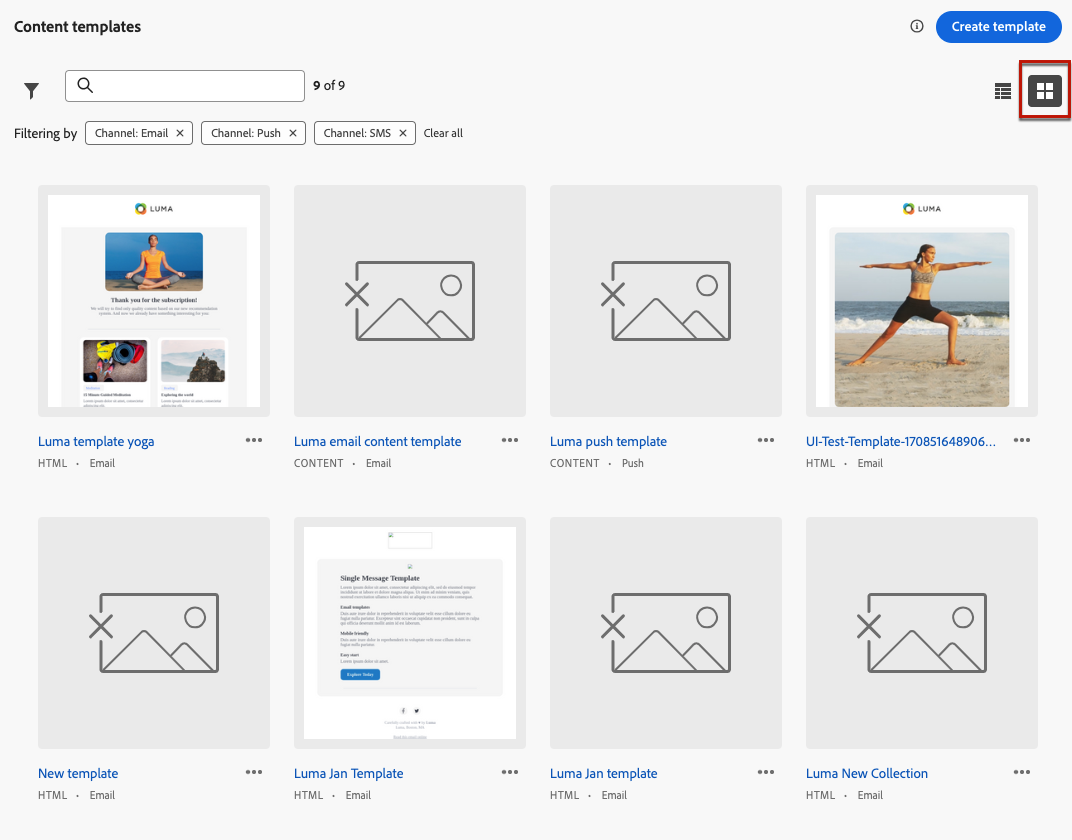
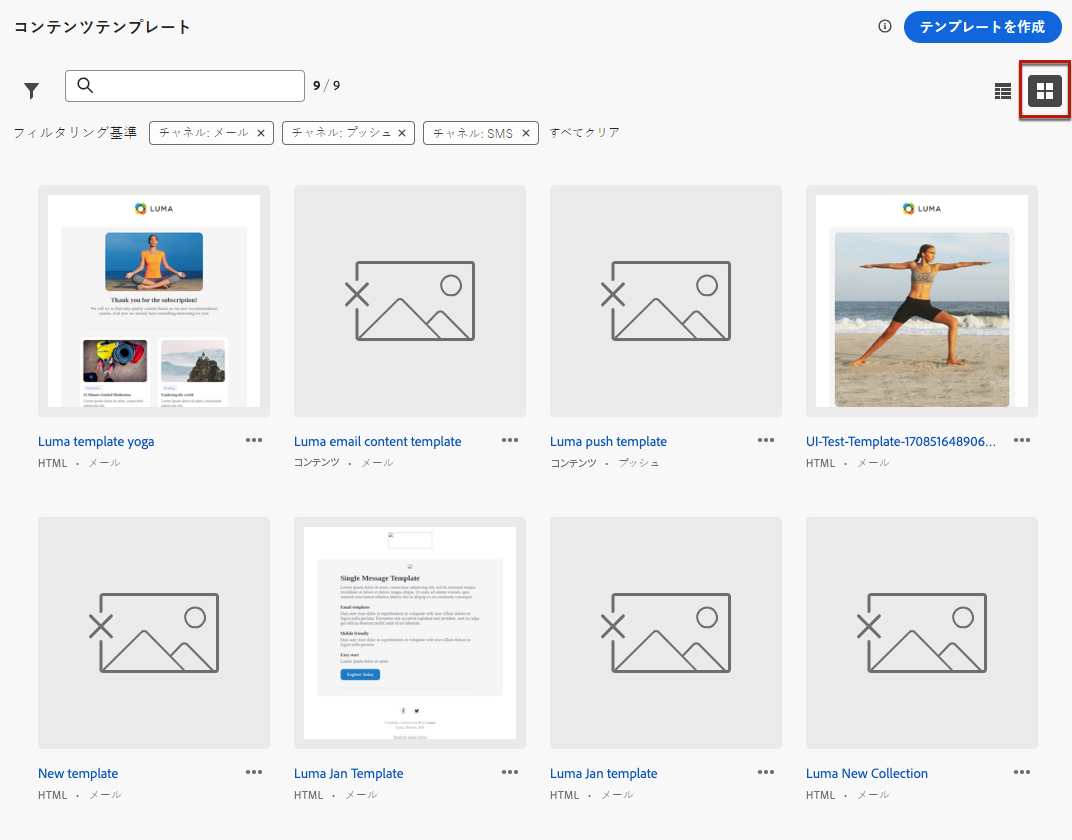
Updated by task 'DOCAC-10126_1710856422931'  Changes for core/source commit https://git.corp.adobe.com/AdobeDocs/journey-optimizer.en/commit/44170e04be45c5b3df6343767dc7e640a61940f8

diff --git a/help/using/configuration/frequency-rules.md b/help/using/configuration/frequency-rules.md
@@ -10,9 +10,9 @@ level: Intermediate
 keywords: メッセージ, 頻度, ルール, プレッシャー
 exl-id: 49248fb6-5a91-45b2-9de8-2f078d59c0fc
 source-git-commit: 949e7cd05a2b1125e13615814f6501b3906e470c
-workflow-type: tm+mt
+workflow-type: ht
 source-wordcount: '1212'
-ht-degree: 90%
+ht-degree: 100%
 
 ---
 
@@ -75,13 +75,13 @@ ht-degree: 90%
 
    >[!NOTE]
    >
-   >次の項目のみ **[!UICONTROL マーケティング]** カテゴリが使用可能です。
+   >**[!UICONTROL マーケティング]**&#x200B;カテゴリのみが使用可能です。
 
    ![](assets/message-rules-details.png)
 
-1. 次から： **[!UICONTROL 期間]** 」ドロップダウンリストから、キャッピングを適用する期間を選択します。 [詳細情報](#frequency-cap)
+1. **[!UICONTROL 期間]**&#x200B;ドロップダウンリストから、キャッピングを適用する時間枠を選択します。[詳細情報](#frequency-cap)
 
-1. ルールのキャッピングを設定します。これは、上記の選択に応じて、毎月または毎週<!--or day-->、個々のユーザープロファイルに送信できるメッセージの最大数を意味します。
+1. ルールのキャッピングを設定します。これは、上記の選択に応じて、1 つの個別ユーザープロファイルに送信できる、1 か月または 1 週間あたり<!--or day-->のメッセージの最大数を意味します。
 
    <!--![](assets/message-rules-capping.png)-->
 
@@ -101,13 +101,13 @@ ht-degree: 90%
 
    ![](assets/message-rules-created.png)
 
-### 頻度キャップ {#frequency-cap}
+### フリークエンシーキャップ {#frequency-cap}
 
-次から： **[!UICONTROL 期間]** ドロップダウンリストから、毎月または毎週制限を適用する場合に選択します。
+**[!UICONTROL 期間]**&#x200B;ドロップダウンリストから、キャッピングを毎月に適用するか毎週に適用するかを選択します。
 
 >[!NOTE]
 >
->1 日あたりの頻度キャップは、オンデマンドでも利用できます。 [詳細情報](#daily-frequency-cap)
+>また、日別のフリークエンシーキャップは、オンデマンドでも使用可能です。[詳細情報](#daily-frequency-cap)
 
 フリークエンシーキャップは、選択したカレンダーの期間に基づきます。対応する時間枠の開始時にリセットされます。
 
@@ -119,15 +119,15 @@ ht-degree: 90%
 
 * **[!UICONTROL 毎週]**：フリークエンシーキャップは、暦週が日曜日に始まるため、その週の土曜日 23:59:59 UTC まで有効です。有効期限は、ルールの作成に関係なく設定されます。例えば、木曜日にルールが作成された場合、このルールは土曜日の 23:59:59 まで有効です。
 
-### 1 日あたりの頻度の上限 {#daily-frequency-cap}
+### 日別のフリークエンシーキャップ {#daily-frequency-cap}
 
-1 か月と 1 週間に加えて、1 日の頻度キャップもオンデマンドで利用できます。 詳しくは、Adobe担当者にお問い合わせください。
+月別と週別に加えて、日別のフリークエンシーキャップもオンデマンドで使用可能です。詳しくは、アドビ担当者にお問い合わせください。
 
-1 日の頻度の上限は、23 日まで有効です:59:59(UTC) に設定され、翌日の開始時に 0 にリセットされます。
+日別のフリークエンシーキャップは、その日の 23:59:59 UTC まで有効で、翌日の開始とともに 0 にリセットされます。
 
 >[!NOTE]
 >
->を処理する際に [バッチセグメント化](https://experienceleague.adobe.com/docs/experience-platform/segmentation/home.html?lang=ja#batch){target="_blank"}, the daily counters may not accurately reflect the current values as the daily counter snapshot is taken at midnight UTC the night before. Consequently, relying on daily counters in this scenario becomes impractical, as the snapshot does not reflect the most up-to-date counter values on the profile. To ensure accuracy for daily frequency capping rules, the use of [streaming segmentation](https://experienceleague.adobe.com/docs/experience-platform/segmentation/ui/streaming-segmentation.html?lang=ja){target="_blank"} をお勧めします。 でのオーディエンス評価方法の詳細を説明します。 [この節](../audience/about-audiences.md#evaluation-method-in-journey-optimizer).
+>[バッチセグメント化](https://experienceleague.adobe.com/docs/experience-platform/segmentation/home.html?lang=ja#batch)を扱う場合、{target="_blank"}, the daily counters may not accurately reflect the current values as the daily counter snapshot is taken at midnight UTC the night before. Consequently, relying on daily counters in this scenario becomes impractical, as the snapshot does not reflect the most up-to-date counter values on the profile. To ensure accuracy for daily frequency capping rules, the use of [streaming segmentation](https://experienceleague.adobe.com/docs/experience-platform/segmentation/ui/streaming-segmentation.html?lang=ja){target="_blank"} が推奨されます。オーディエンスの評価方法について詳しくは、[この節](../audience/about-audiences.md#evaluation-method-in-journey-optimizer)を参照してください。
 
 ## ルールのアクティブ化 {#activate-rule}
 

diff --git a/help/using/building-journeys/expression/data-types.md b/help/using/building-journeys/expression/data-types.md
@@ -9,9 +9,9 @@ level: Experienced
 keywords: 式, データ, データタイプ, ジャーニー
 exl-id: fdfc3287-d733-45fb-ad11-b4238398820a
 source-git-commit: 4e7c4e7e6fcf488f572ccf3e9037e597dde06510
-workflow-type: tm+mt
+workflow-type: ht
 source-wordcount: '620'
-ht-degree: 95%
+ht-degree: 100%
 
 ---
 
@@ -165,7 +165,7 @@ toDateTimeOnly 関数でカプセル化できます。
 
 シリアル化形式：ISO-8601 拡張オフセット日時形式。
 
-値の逆シリアル化とシリアル化に DateTimeFormatter ISO_LOCAL_DATE_TIME を使用します。[詳細情報](https://docs.oracle.com/javase/8/docs/api/java/time/format/DateTimeFormatter.html#ISO_LOCAL_DATE_TIME&quot;){_blank}.
+値の逆シリアル化とシリアル化に DateTimeFormatter ISO_LOCAL_DATE_TIME を使用します。[詳細情報](https://docs.oracle.com/javase/8/docs/api/java/time/format/DateTimeFormatter.html#ISO_LOCAL_DATE_TIME&quot;){_blank}。
 
 **リテラル表現**
 
@@ -186,7 +186,7 @@ date("2024-02-19T00.00")
 
 タイムゾーンも考慮した日時定数。UTC からのオフセットを持つ日時を表します。
 
-オフセットの追加情報を含んだある瞬間と見なすことができます。これは、世界のある場所で特定の「瞬間」を表す方法です。
+オフセットの追加情報を含んだある瞬間と見なすことができます。世界のある場所での特定の「瞬間」を表す手段になります。
 
 JSON 形式：文字列
 
@@ -194,9 +194,9 @@ toDateTime 関数でカプセル化できます。
 
 シリアル化形式：ISO-8601 拡張オフセット日時形式。
 
-値の逆シリアル化とシリアル化に DateTimeFormatter ISO_OFFSET_DATE_TIME を使用します。[詳細情報](https://docs.oracle.com/javase/8/docs/api/java/time/format/DateTimeFormatter.html#ISO_OFFSET_DATE_TIME){_blank}.
+値の逆シリアル化とシリアル化に DateTimeFormatter ISO_OFFSET_DATE_TIME を使用します。[詳細情報](https://docs.oracle.com/javase/8/docs/api/java/time/format/DateTimeFormatter.html#ISO_OFFSET_DATE_TIME){_blank}。
 
-エポック値を表す整数を渡すこともできます。[詳細を表示](https://www.epochconverter.com){_blank}.
+エポック値を表す整数を渡すこともできます。[詳細情報](https://www.epochconverter.com){_blank}。
 
 タイムゾーンは、オフセットまたはタイムゾーンコード（例：Europe/Paris、Z は UTC を意味）で指定できます。
 
@@ -258,7 +258,7 @@ toDuration 関数でカプセル化する必要があります。
 
 シリアル化形式：タイムゾーン ID を逆シリアル化するには、java 関数の java.time を使用します。
 
-Duration.parse：許可される形式は、ISO-8601 期間形式 PnDTnHnMn.nS に基づいており、日は正確に 24 時間と見なされます。[詳細情報](https://docs.oracle.com/javase/8/docs/api/java/time/Duration.html#parse-java.lang.CharSequence-){_blank}.
+Duration.parse：許可される形式は、ISO-8601 期間形式 PnDTnHnMn.nS に基づいており、日は正確に 24 時間と見なされます。[詳細情報](https://docs.oracle.com/javase/8/docs/api/java/time/Duration.html#parse-java.lang.CharSequence-){_blank}。
 
 **リテラル表現**
 

diff --git a/help/using/building-journeys/wait-activity.md b/help/using/building-journeys/wait-activity.md
@@ -10,9 +10,9 @@ level: Intermediate
 keywords: 待機, アクティビティ, ジャーニー, 次, キャンバス
 exl-id: 7268489a-38c1-44da-b043-f57aaa12d7d5
 source-git-commit: 4e7c4e7e6fcf488f572ccf3e9037e597dde06510
-workflow-type: tm+mt
+workflow-type: ht
 source-wordcount: '489'
-ht-degree: 89%
+ht-degree: 100%
 
 ---
 
@@ -64,9 +64,9 @@ Select the date for the execution of the next activity.
 
 >[!NOTE]
 >
->dateTimeOnly 式を利用するか、関数を使用して dateTimeOnly に変換することができます。例えば、toDateTimeOnly(@event{Event.offerOpened.activity.endTime}) の場合、イベントのフィールドは2023-08-12T09の形式です。:46:06Z
+>dateTimeOnly 式を利用するか、関数を使用して dateTimeOnly に変換することができます。例えば、toDateTimeOnly(@event{Event.offerOpened.activity.endTime}) では、イベント内のフィールドが 2023-08-12T09:46:06Z の形式になります。
 >
->ジャーニーのプロパティには&#x200B;**タイムゾーン**&#x200B;が必要です。その結果、現在、インターフェイスから完全な ISO-8601 タイムスタンプを直接指すことはできず、タイムゾーンのオフセット (2023-08-12T09など ) を含む:46:06.982-05 [このページ](../building-journeys/timezone-management.md)を参照してください。
+>ジャーニーのプロパティには&#x200B;**タイムゾーン**&#x200B;が必要です。そのため、今のところ、時刻とタイムゾーンのオフセットを組み合わせた、完全な ISO-8601 タイムスタンプ（2023-08-12T09:46:06.982-05 など）をインターフェイスから直接指定することはできません。[このページ](../building-journeys/timezone-management.md)を参照してください。
 
 ![](assets/journey57.png)
 

diff --git a/help/using/content-management/content-templates.md b/help/using/content-management/content-templates.md
@@ -9,9 +9,9 @@ role: User
 level: Beginner
 exl-id: 327de13a-1c99-4d5e-86cf-8180fb7aaf23
 source-git-commit: 3f844f65609f271e834ebf42749253fd64446a9a
-workflow-type: tm+mt
+workflow-type: ht
 source-wordcount: '1425'
-ht-degree: 96%
+ht-degree: 100%
 
 ---
 
@@ -69,7 +69,7 @@ ht-degree: 96%
 
 ### テンプレートをサムネールとして表示 {#template-thumbnails}
 
-を選択します。 **[!UICONTROL グリッド表示]** モード：各テンプレートをサムネールとして表示します。
+各テンプレートをサムネールとして表示するには、**[!UICONTROL グリッド表示]**&#x200B;モードを選択します。
 
 >[!AVAILABILITY]
 >
@@ -79,9 +79,9 @@ ht-degree: 96%
 
 >[!NOTE]
 >
->現在、適切なサムネールは、HTMLタイプの E メールコンテンツテンプレートに対してのみ生成できます。
+>現在、適切なサムネールは HTML タイプのメールコンテンツテンプレートに対してのみ生成できます。
 
-コンテンツを更新する場合、変更がサムネールに反映されるまで、数秒待つ必要が生じる場合があります。
+コンテンツを更新する場合、変更がサムネールに反映されるまでに数秒待つ必要がある場合があります。
 
 ## コンテンツテンプレートの作成 {#create-content-templates}
 

diff --git a/help/using/offers/api-reference/offers-api/legacy-apis/collections/collections-list.md b/help/using/offers/api-reference/offers-api/legacy-apis/collections/collections-list.md
@@ -7,9 +7,9 @@ role: Data Engineer
 level: Experienced
 exl-id: ce39d77d-6d81-48d7-9e73-e1d537874018
 source-git-commit: 4e7c4e7e6fcf488f572ccf3e9037e597dde06510
-workflow-type: tm+mt
+workflow-type: ht
 source-wordcount: '272'
-ht-degree: 97%
+ht-degree: 100%
 
 ---
 
@@ -30,7 +30,7 @@ GET /{ENDPOINT_PATH}/{CONTAINER_ID}/queries/core/search?schema={SCHEMA_FILTER}&{
 | `{ENDPOINT_PATH}` | リポジトリ API のエンドポイントパス。 | `https://platform.adobe.io/data/core/xcore/` |
 | `{QUERY_PARAMS}` | 結果をフィルタリングする条件となるクエリパラメーター（オプション）。 | `limit=2` |
 | `{CONTAINER_ID}` | コレクションが配置されているコンテナ。 | `e0bd8463-0913-4ca1-bd84-6309134ca1f6` |
-| `{SCHEMA_FILTER}` | コレクションに関連付けられたスキーマを定義します。 <https://ns.adobe.com/experience/offer-management/offer-filter;version=0.1> |
+| `{SCHEMA_FILTER}` | コレクションに関連付けられたスキーマを定義します。<https://ns.adobe.com/experience/offer-management/offer-filter;version=0.1> |
 | `{QUERY_PARAMS}` | 結果をフィルタリングする条件となるクエリパラメーター（オプション）。 | `limit=1` |
 
 **リクエスト**

diff --git a/help/using/sms/sms-opt-out.md b/help/using/sms/sms-opt-out.md
@@ -9,9 +9,9 @@ role: User
 level: Intermediate
 exl-id: 59ea67d9-e90c-4ad0-afb9-d0e0fd868855
 source-git-commit: d7b784f10e267878fd0df9360ed0d1be24699a53
-workflow-type: tm+mt
+workflow-type: ht
 source-wordcount: '484'
-ht-degree: 97%
+ht-degree: 100%
 
 ---
 
@@ -38,7 +38,7 @@ ht-degree: 97%
 
 これらのキーワードは通常、お使いのサードパーティプロバイダーから提供される自動標準返信をトリガーします。これについては、プロバイダーまたはドキュメントサイトで直接確認してください。
 
-Infobip を使用する場合は、「Forwarding」アクションが「Pull」設定に設定されていることを確認します。
+Infobip を使用する場合は、転送アクションがプル設定に指定されていることを確認してください。
 
 キーワード応答の STOP、UNSTOP、START、QUIT、CANCEL、END および UNSUBSCRIBE が自動的に認識されるので、Adobe Journey Optimizer で SMS オプトアウト機能が機能していることを確認する手順は不要です。プロファイルのオプトアウトステータスは、Adobe Journey Optimizer でリアルタイムに更新されます。
 

diff --git a/help/using/building-journeys/expression/operators.md b/help/using/building-journeys/expression/operators.md
@@ -9,9 +9,9 @@ level: Experienced
 keywords: 式, 構文, 演算子, エディター, ジャーニー
 exl-id: 706e2e02-9bd9-46e7-a73d-dda3c9ae4ba8
 source-git-commit: 4e7c4e7e6fcf488f572ccf3e9037e597dde06510
-workflow-type: tm+mt
+workflow-type: ht
 source-wordcount: '531'
-ht-degree: 93%
+ht-degree: 100%
 
 ---
 
@@ -434,13 +434,13 @@ true を返します
 "the current time is " + (now())
 ```
 
-「現在の時刻は2023-09-23T09です:30:06.693Z&quot;
+「現在の時刻は 2023-09-23T09:30:06.693Z です」を返します
 
 ```json
 (now()) + " is the current time"
 ```
 
-戻り値&quot;2023-09-23T09:30:06.693Z は現在の時刻です。
+「2023-09-23T09:30:06.693Z は現在の時刻です」を返します
 
 ```json
 "a" + "b" + "c" + 1234
@@ -464,13 +464,13 @@ true を返します
 (toDateTime("2023-12-03T15:15:30Z")) + (toDuration("PT15M"))  
 ```
 
-を返します。 _dateTime_ 2023-12-03T15:30:30Z
+_dateTime_ 2023-12-03T15:30:30Z を返します
 
 ```json
 (toDateTimeOnly("2023-12-03T15:15:30")) + (toDuration("PT15M"))
 ```
 
-を返します。 _dateTimeOnly_ 2023-12-03T15:30:30
+_dateTimeOnly_ 2023-12-03T15:30:30 を返します
 
 ```json
 (now()) + (toDuration("PT1H"))

diff --git a/help/using/building-journeys/functions/functiontodatetime.md b/help/using/building-journeys/functions/functiontodatetime.md
@@ -5,12 +5,12 @@ description: toDateTime 関数について説明します
 feature: Journeys
 role: Data Engineer, Architect
 level: Experienced
-keywords: toDateTime，関数，式，ジャーニー
+keywords: toDateTime, 関数, 式, ジャーニー
 exl-id: 2b487e60-593e-4bf7-9639-f469ba0f5cdc
 source-git-commit: 4e7c4e7e6fcf488f572ccf3e9037e597dde06510
-workflow-type: tm+mt
+workflow-type: ht
 source-wordcount: '104'
-ht-degree: 81%
+ht-degree: 100%
 
 ---
 
@@ -74,15 +74,15 @@ Return a datetime.
 
 `toDateTime ("2023-08-18T23:17:59.123Z")`
 
-戻り値2023-08-18T23:17:59.123Z
+2023-08-18T23:17:59.123Z を返します
 
 `toDateTime(toDateTimeOnly("UTC", "2023-08-18T23:17:59.123"))`
 
-戻り値2023-08-18T23:17:59.123Z
+2023-08-18T23:17:59.123Z を返します
 
 `toDateTime(1560762190189)`
 
-戻り値2023-06-17T09:03:10.189Z
+2023-06-17T09:03:10.189Z を返します
 
 <!--`toDateTime ("2016-08-18T23:17:59.123", "UTC")`
 

diff --git a/help/using/building-journeys/functions/functiontodateonly.md b/help/using/building-journeys/functions/functiontodateonly.md
@@ -5,12 +5,12 @@ description: toDateOnly 関数について説明します
 feature: Journeys
 role: Data Engineer, Architect
 level: Experienced
-keywords: toDateOnly，関数，式，ジャーニー
+keywords: toDateOnly, 関数, 式, ジャーニー
 exl-id: 1929644f-8b51-4f95-aea5-627fc1dd115d
 source-git-commit: 4e7c4e7e6fcf488f572ccf3e9037e597dde06510
-workflow-type: tm+mt
+workflow-type: ht
 source-wordcount: '100'
-ht-degree: 96%
+ht-degree: 100%
 
 ---
 
@@ -55,7 +55,7 @@ dateOnly 型の値を返します。
 
 `toDateOnly("2023-08-18T00:00:00")`
 
-すべての場合、2023/08/18 を表す dateOnly オブジェクトが返されます。
+すべて、2023/08/18 を表す dateOnly オブジェクトを返します。
 
 `toDateOnly(#{ExperiencePlatform.ProfileFieldGroup.person.birthDate})`
 

diff --git a/help/using/building-journeys/functions/functiontodatetimeonly.md b/help/using/building-journeys/functions/functiontodatetimeonly.md
@@ -5,12 +5,12 @@ description: toDateTime 関数について説明します
 feature: Journeys
 role: Data Engineer, Architect
 level: Experienced
-keywords: toDateTimeOnly，関数，式，ジャーニー
+keywords: toDateTimeOnly, 関数, 式, ジャーニー
 exl-id: db54c119-5080-403a-b254-43645be6b4a8
 source-git-commit: 4e7c4e7e6fcf488f572ccf3e9037e597dde06510
-workflow-type: tm+mt
+workflow-type: ht
 source-wordcount: '63'
-ht-degree: 80%
+ht-degree: 100%
 
 ---
 
@@ -47,7 +47,7 @@ ht-degree: 80%
 
 `toDateTimeOnly ("2023-08-18")`
 
-は、2023-08-18T00を表す dateTime を返します:00:00.000
+2023-08-18T00:00:00.000 を表す日時を返します
 
 `toDateTimeOnly(now())`
 

diff --git a/help/using/data/datasets-query-examples.md b/help/using/data/datasets-query-examples.md
@@ -10,9 +10,9 @@ level: Experienced
 keywords: データセット, Optimizer, ユースケース
 exl-id: 26ba8093-8b6d-4ba7-becf-b41c9a06e1e8
 source-git-commit: 4e7c4e7e6fcf488f572ccf3e9037e597dde06510
-workflow-type: tm+mt
+workflow-type: ht
 source-wordcount: '844'
-ht-degree: 99%
+ht-degree: 100%
 
 ---
 
@@ -164,7 +164,7 @@ WHERE
 ORDER BY timestamp DESC;
 ```
 
-日付の形式は次のとおりです。 `YYYY-MM-DD HH:MM:SS`.
+日付の形式は、`YYYY-MM-DD HH:MM:SS` です。
 
 識別したら、これらのアドレスを Journey Optimizer 抑制リストから削除します。[詳細情報](../configuration/manage-suppression-list.md#remove-from-suppression-list)
 

diff --git a/help/using/building-journeys/functions/functionsethours.md b/help/using/building-journeys/functions/functionsethours.md
@@ -5,12 +5,12 @@ description: setHours 関数について説明します
 feature: Journeys
 role: Data Engineer, Architect
 level: Experienced
-keywords: setHours，関数，式，ジャーニー
+keywords: setHours、関数、式、ジャーニー
 exl-id: ed78c2a9-d83a-4fac-a2e9-7383da131a1f
 source-git-commit: 4e7c4e7e6fcf488f572ccf3e9037e597dde06510
-workflow-type: tm+mt
+workflow-type: ht
 source-wordcount: '108'
-ht-degree: 91%
+ht-degree: 100%
 
 ---
 
@@ -48,7 +48,7 @@ ht-degree: 91%
 
 `setHours(toDateTime('2023-12-12T01:11:00Z'), 4)`
 
-戻り値2023-12-12T04:11:00Z
+2023-12-12T04:11:00Z を返します。
 
 `setHours(nowWithDelta(1, "days"), 20)`
 
